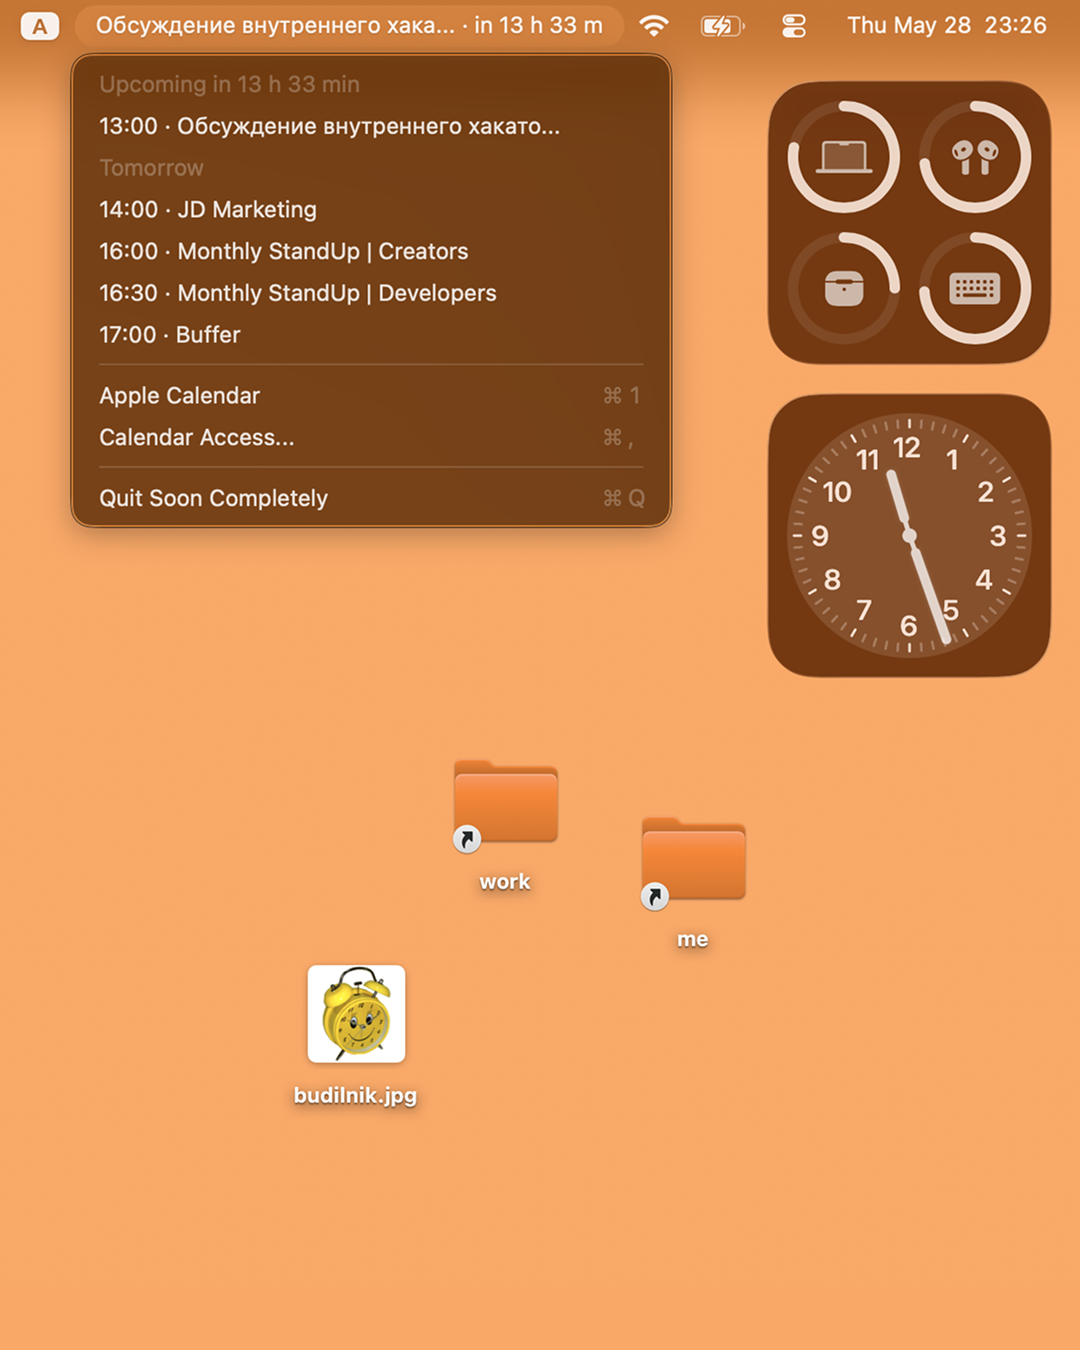
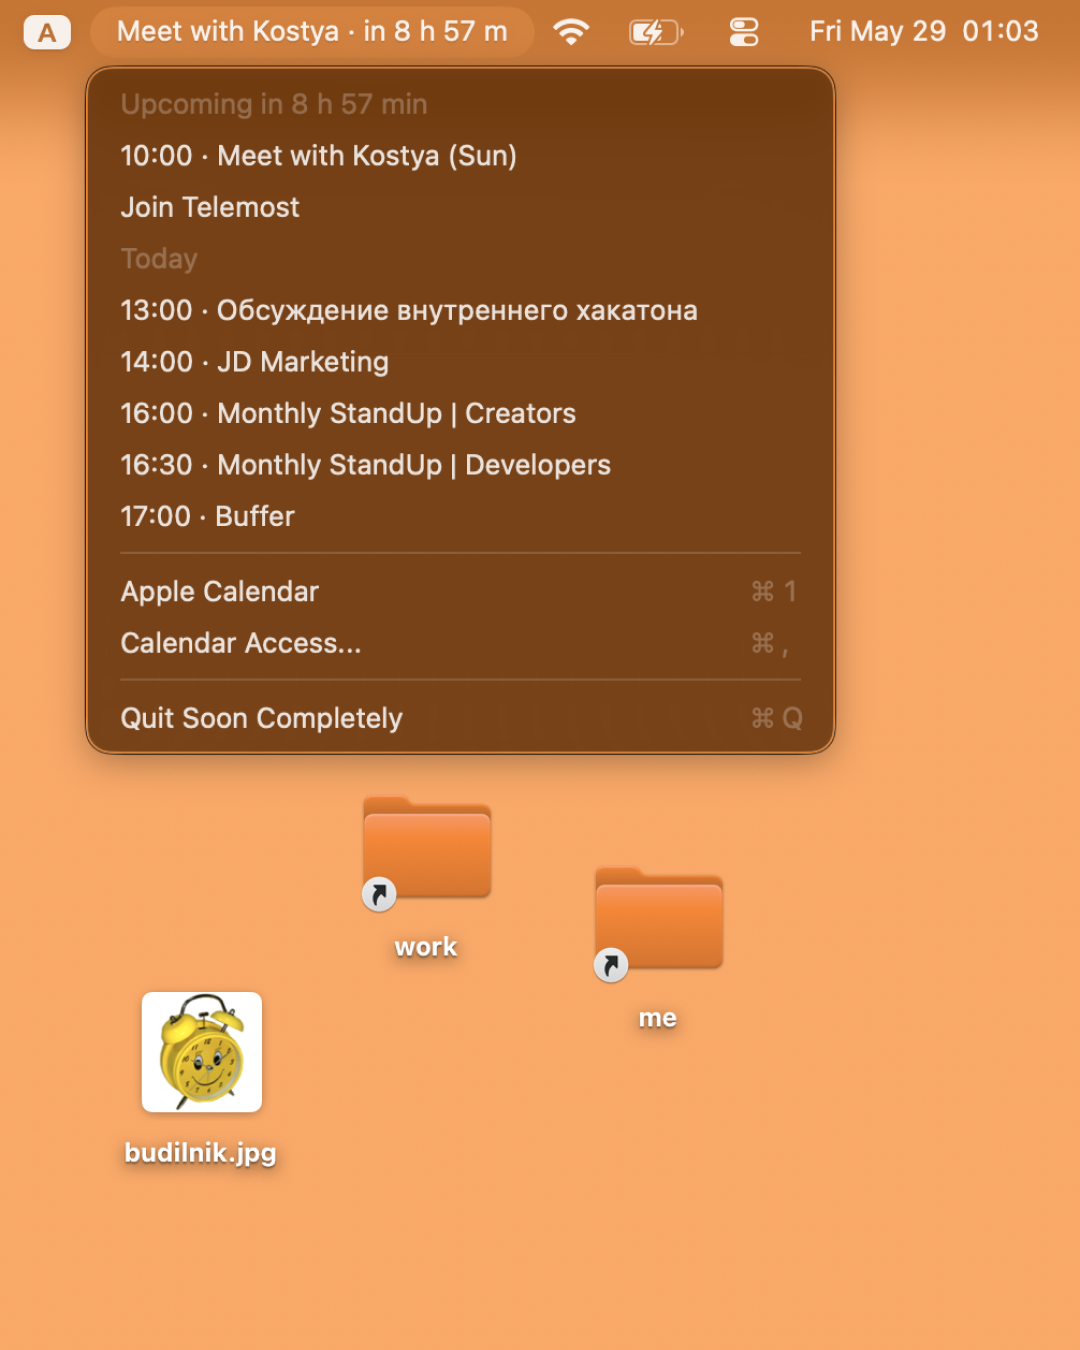
Release Soon 1.1

diff --git a/RELEASE_NOTES.md b/RELEASE_NOTES.md
@@ -1,10 +1,11 @@
-# Soon v1.0.0
+# Soon v1.1
 
-First stable GitHub release.
+Current stable GitHub release.
 
 - Native macOS menu bar app.
 - Apple Calendar integration via EventKit.
 - Menu bar countdown for the next event.
 - Native pull-down menu with today and tomorrow's events.
+- Meeting actions for the next event, including detected video meeting links.
 - Bundled macOS 26 adaptive Icon Composer source icon compiled through `actool`.
 - DMG installer with `Soon.app` and Applications shortcut.

diff --git a/README.md b/README.md
@@ -43,7 +43,7 @@ Download `Soon.dmg` from the latest GitHub Release, open it, and drag `Soon.app`
 ./script/package_dmg.sh
 ```
 
-This creates `dist/Soon-1.0.0.dmg` and `dist/Soon.dmg`.
+This creates `dist/Soon-1.1.dmg` and `dist/Soon.dmg`.
 
 ## Repository Layout
 
